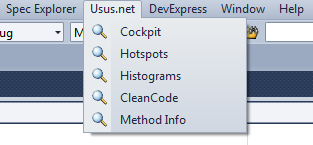
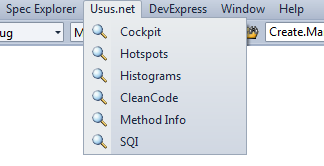
more sqi calc text

diff --git a/source/Usus.net/Usus.net.View/SQI.xaml b/source/Usus.net/Usus.net.View/SQI.xaml
@@ -12,12 +12,15 @@
         <Grid.RowDefinitions>
             <RowDefinition Height="Auto"/>
             <RowDefinition/>
-            <RowDefinition Height="50"/>
         </Grid.RowDefinitions>
-        <ProgressBar Style="{StaticResource AnalysisProgress}"/>
+        <Grid.ColumnDefinitions>
+            <ColumnDefinition Width="Auto"/>
+            <ColumnDefinition/>
+        </Grid.ColumnDefinitions>
+        <ProgressBar Style="{StaticResource AnalysisProgress}" Grid.ColumnSpan="2"/>
         <DataGrid Grid.Row="1" ItemsSource="{Binding Parameters}"
                   Style="{StaticResource DisplayGrid}" IsReadOnly="False"/>
-        <StackPanel Grid.Row="2" Orientation="Horizontal" VerticalAlignment="Center" HorizontalAlignment="Center">
+        <StackPanel Grid.Row="1" Grid.Column="1" Orientation="Horizontal" VerticalAlignment="Center" HorizontalAlignment="Center">
             <TextBlock Text="SQI = " FontSize="20" VerticalAlignment="Center"/>
             <TextBlock Text="{Binding Sqi}" FontSize="35"/>
         </StackPanel>
